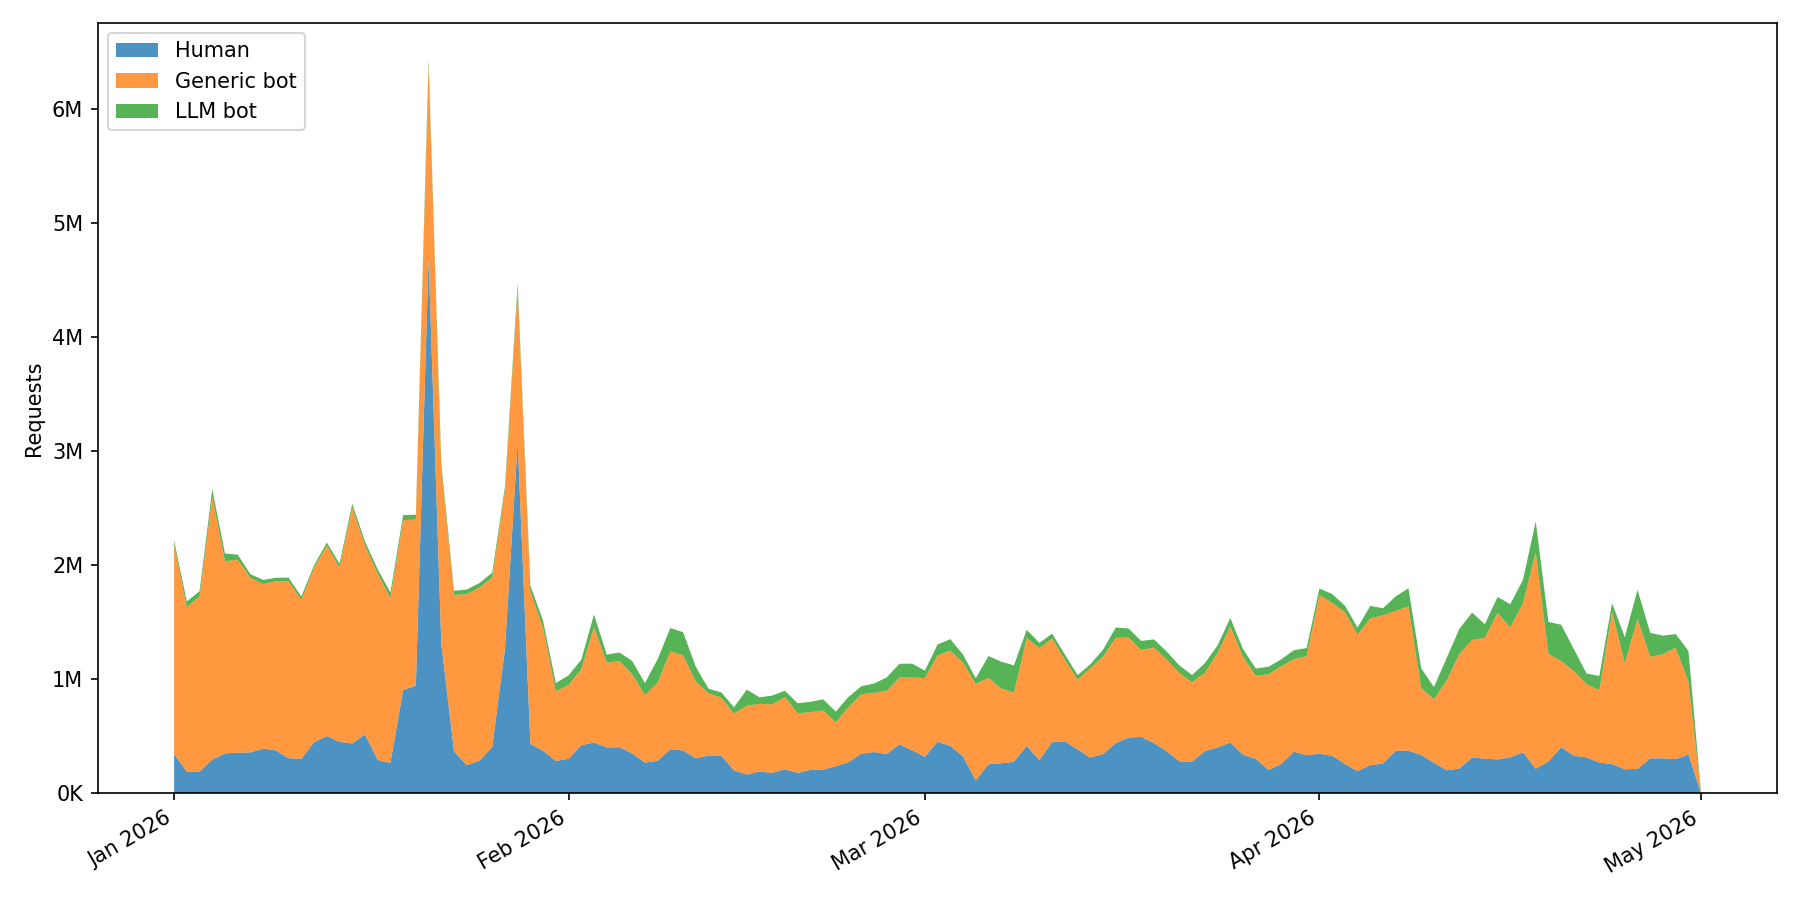
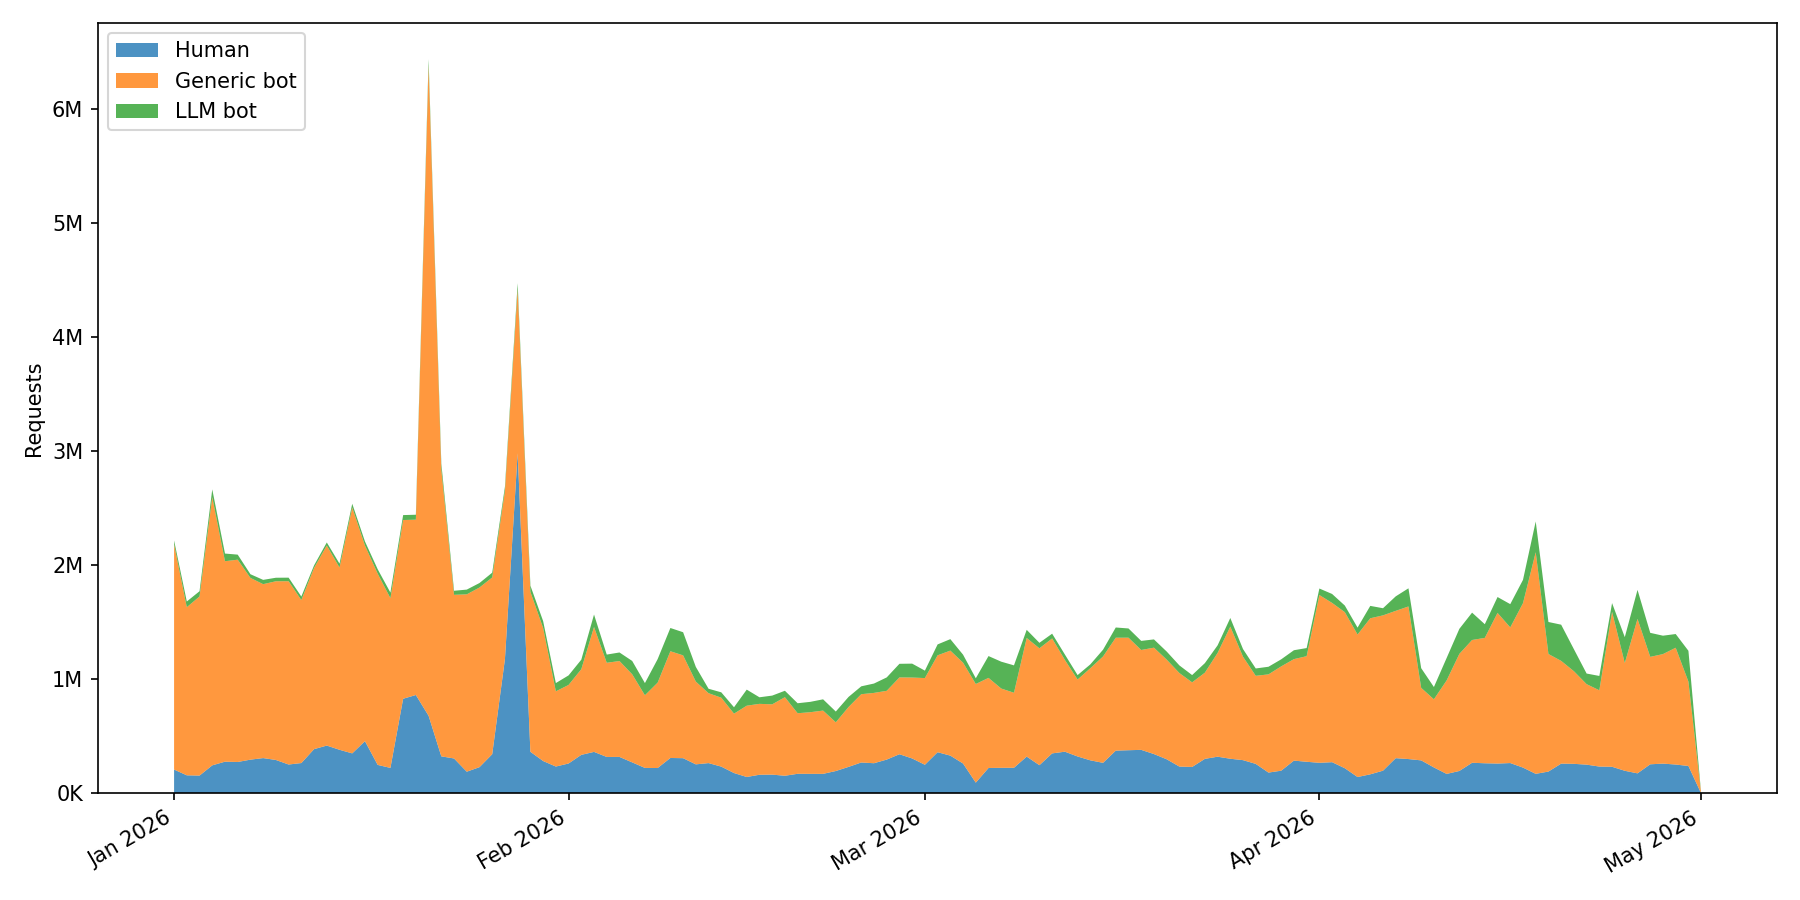
fix: reclassify high-volume human IPs as bots

diff --git a/oc_botwatch/classify.py b/oc_botwatch/classify.py
@@ -14,6 +14,7 @@ _SKIP_LLM_NAMES: frozenset[str] = frozenset({"Spider", "Code"})
 
 _SUPPLEMENTARY_LLM_FILE = BASE_DIR / "supplementary_llm_bots.txt"
 _SUPPLEMENTARY_BOT_FILE = BASE_DIR / "supplementary_bots.txt"
+_IP_DAILY_THRESHOLD = 1000
 
 
 def _build_llm_pattern() -> str:
@@ -49,12 +50,12 @@ def classify_traffic() -> pl.DataFrame:
 
     frames = [
         pl.scan_csv(f, schema_overrides={"user_agent": pl.Utf8, "date": pl.Utf8}).select(
-            "date", "user_agent",
+            "hashed_ip", "date", "user_agent",
         )
         for f in sorted(INPUT_DIR.glob("*.csv"))
     ]
 
-    daily = (
+    ip_daily = (
         pl.concat(frames)
         .with_columns(pl.col("date").str.slice(0, 10).alias("date"))
         .filter(pl.col("date").str.contains(r"^\d{4}-\d{2}-\d{2}$"))
@@ -66,9 +67,22 @@ def classify_traffic() -> pl.DataFrame:
             .otherwise(pl.lit("human"))
             .alias("category"),
         )
-        .group_by("date", "category")
+        .group_by("hashed_ip", "date", "category")
         .len()
         .collect(engine="streaming")
+    )
+
+    daily = (
+        ip_daily.with_columns(
+            pl.when(
+                (pl.col("category") == "human") & (pl.col("len") > _IP_DAILY_THRESHOLD),
+            )
+            .then(pl.lit("generic_bot"))
+            .otherwise(pl.col("category"))
+            .alias("category"),
+        )
+        .group_by("date", "category")
+        .agg(pl.col("len").sum())
     )
 
     return (

diff --git a/README.md b/README.md
@@ -2,11 +2,11 @@
 
 Classifies traffic from [OpenCitations](https://opencitations.net) server access logs into three categories: human visitors, generic bots, and LLM bots
 
-It reads monthly CSV dumps, classifies each request by its user-agent string, and outputs a single `daily_traffic.csv` with per-day counts for each category.
+It reads monthly CSV dumps, classifies each request by its user-agent string and request volume, and outputs a single `daily_traffic.csv` with per-day counts for each category.
 
 ## Input data
 
-The script reads all `.csv` files from the `input/` directory. Each file is a monthly export of OpenCitations HTTP access logs; only the `user_agent` and `date` columns are used. The datasets are not yet publicly available but will be released in the future.
+The script reads all `.csv` files from the `input/` directory. Each file is a monthly export of OpenCitations HTTP access logs; the `user_agent`, `date`, and `hashed_ip` columns are used. The datasets are not yet publicly available but will be released in the future.
 
 ## How classification works
 
@@ -23,6 +23,8 @@ Two supplementary files cover bots present in our data that none of the three da
 - [`supplementary_bots.txt`](supplementary_bots.txt)
 - [`supplementary_llm_bots.txt`](supplementary_llm_bots.txt)
 
+After user-agent classification, any IP that generates more than 1,000 requests in a single day while classified as `human` is reclassified as `generic_bot`.
+
 Everything else is `human`.
 
 ### Why these three sources
@@ -33,7 +35,7 @@ COUNTER-Robots is the robot list maintained by [Project COUNTER](https://www.pro
 
 ## Limitations
 
-User-agent string matching only detects bots that openly identify themselves. In practice, this means that the bot counts produced here are a lower bound on actual bot traffic, and the human counts are an upper bound. The classification remains useful for tracking relative trends over time, since the same lists applied consistently yield comparable proportions across periods.
+User-agent string matching only detects bots that openly identify themselves; the per-IP threshold mitigates UA spoofing but may misclassify shared IPs (university proxies, corporate NATs) that legitimately exceed 1,000 daily requests. In practice, bot counts are a lower bound and human counts an upper bound. The classification remains useful for tracking relative trends over time, since the same rules applied consistently yield comparable proportions across periods.
 
 ## Running
 